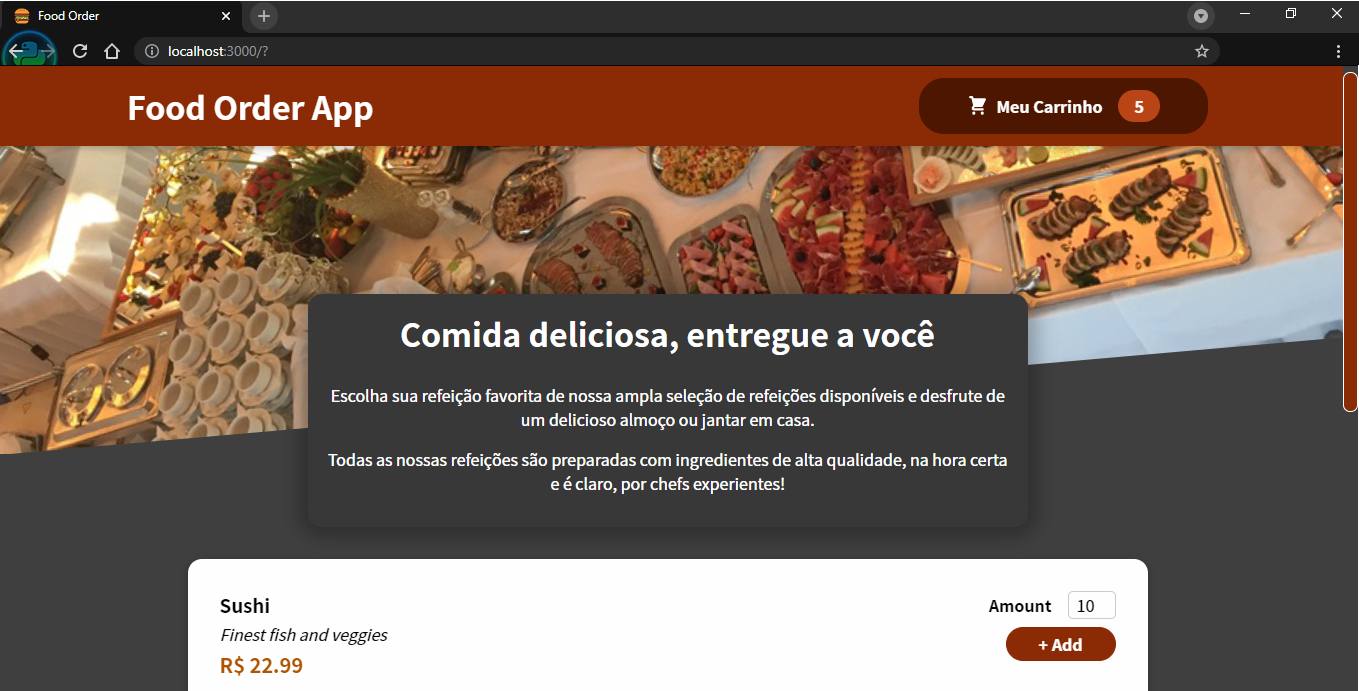
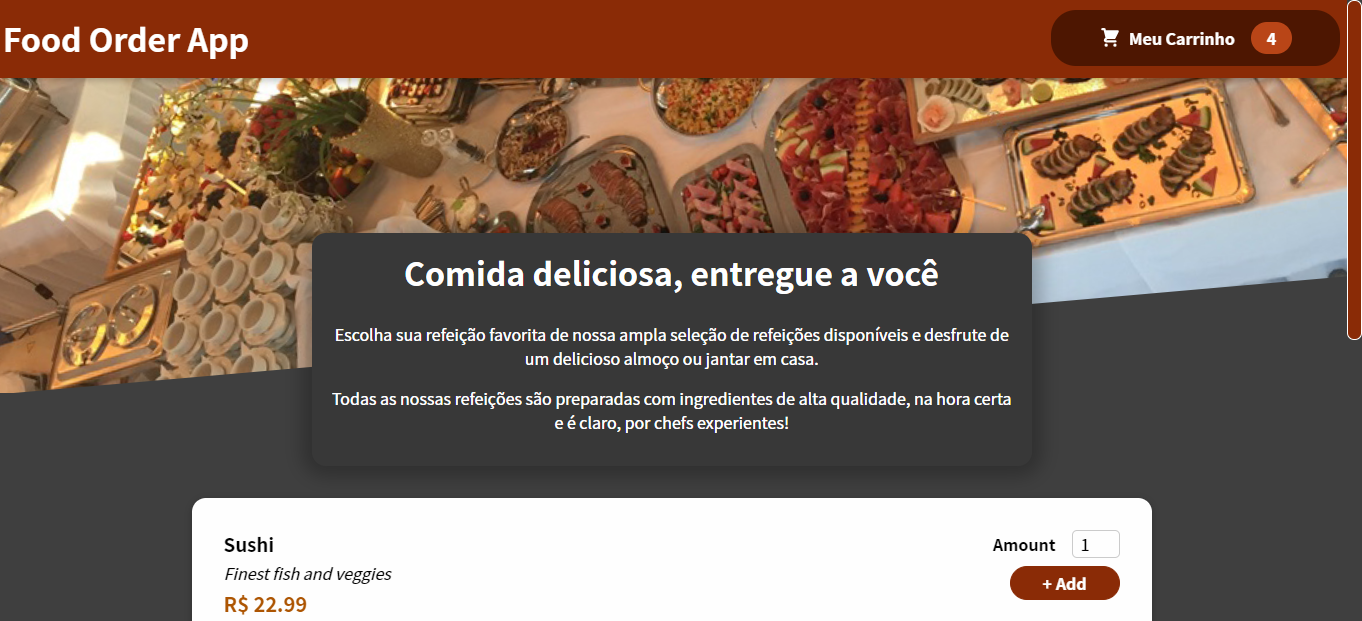
Inclusão de lógica para adicionar mais items ou remover dos que estão no carrinho

diff --git a/src/store/CartProvider.jsx b/src/store/CartProvider.jsx
@@ -9,14 +9,57 @@ const defaultCartState = {
 
 const cartReducer = (state, action) => {
 	if (action.type === 'ADD') {
-		const updatedItems = state.items.concat(action.item);
 		const updatedTotalAmount =
 			state.totalAmount + action.item.price * action.item.amount;
+
+		const existingCartItemIndex = state.items.findIndex(
+			item => item.id === action.item.id,
+		);
+		const existingCartItem = state.items[existingCartItemIndex];
+
+		let updatedItems;
+
+		if (existingCartItem) {
+			const updatedItem = {
+				...existingCartItem,
+				amount: existingCartItem.amount + action.item.amount,
+			};
+			updatedItems = [...state.items];
+			updatedItems[existingCartItemIndex] = updatedItem;
+		} else {
+			updatedItems = state.items.concat(action.item);
+		}
+
 		return {
 			items: updatedItems,
 			totalAmount: updatedTotalAmount,
 		};
 	}
+
+	if (action.type === 'REMOVE') {
+		const existingCartItemIndex = state.items.findIndex(
+			item => item.id === action.id,
+		);
+		const existingCartItem = state.items[existingCartItemIndex];
+		const updatedTotalAmount = state.totalAmount - existingCartItem.price;
+		let updatedItems;
+		if (existingCartItem.amount === 1) {
+			updatedItems = state.items.filter(item => item.id !== action.id);
+		} else {
+			const updatedItem = {
+				...existingCartItem,
+				amount: existingCartItem.amount - 1,
+			};
+			updatedItems = [...state.items];
+			updatedItems[existingCartItemIndex] = updatedItem;
+		}
+
+		return {
+			items: updatedItems,
+			totalAmount: updatedTotalAmount,
+		};
+	}
+
 	return defaultCartState;
 };
 

diff --git a/src/components/Cart/Cart.jsx b/src/components/Cart/Cart.jsx
@@ -8,15 +8,15 @@ import CartItem from './CartItem';
 const Cart = props => {
 	const cartContext = useContext(CartContext);
 
-	const totalAmount = cartContext.totalAmount;
+	const totalAmount = cartContext.totalAmount.toFixed(2);
 
 	const removeCartItemHandler = id => {
-
-	}
+		cartContext.removeItem(id);
+	};
 
 	const addCartItemHandler = item => {
-
-	}
+		cartContext.addItem({ ...item, amount: 1 });
+	};
 
 	const cartItems = (
 		<ul className={classes['cart-items']}>
@@ -47,7 +47,6 @@ const Cart = props => {
 		<Modal onClose={props.onHideCart}>
 			{cartItems}
 			<Toaster position='top-center' reverseOrder={false} />
-
 			<div className={classes.total}>
 				<span>Total</span>
 				<span>R$ {totalAmount}</span>

diff --git a/README.md b/README.md
@@ -13,7 +13,11 @@ de alguns conceitos do React, entre eles:
 - [x] Comunicação Entre componentes
 - [x] UseState
 - [x] UseEffect
+- [x] UseRef
+- [x] UseReducer
 - [x] Context API
+- [x] React Panel
+
 
 ## ✨ Tecnologias
 
@@ -25,6 +29,8 @@ Esse projeto foi desenvolvido com as seguintes tecnologias:
 ## 🔖 Layout
 
 ![interface](src/assets/images/layout.png 'Layout Atual')
+
+![interface](src/assets/images/layout_.png 'Layout Atual')
 
 ## 🚀 Instalação
 
